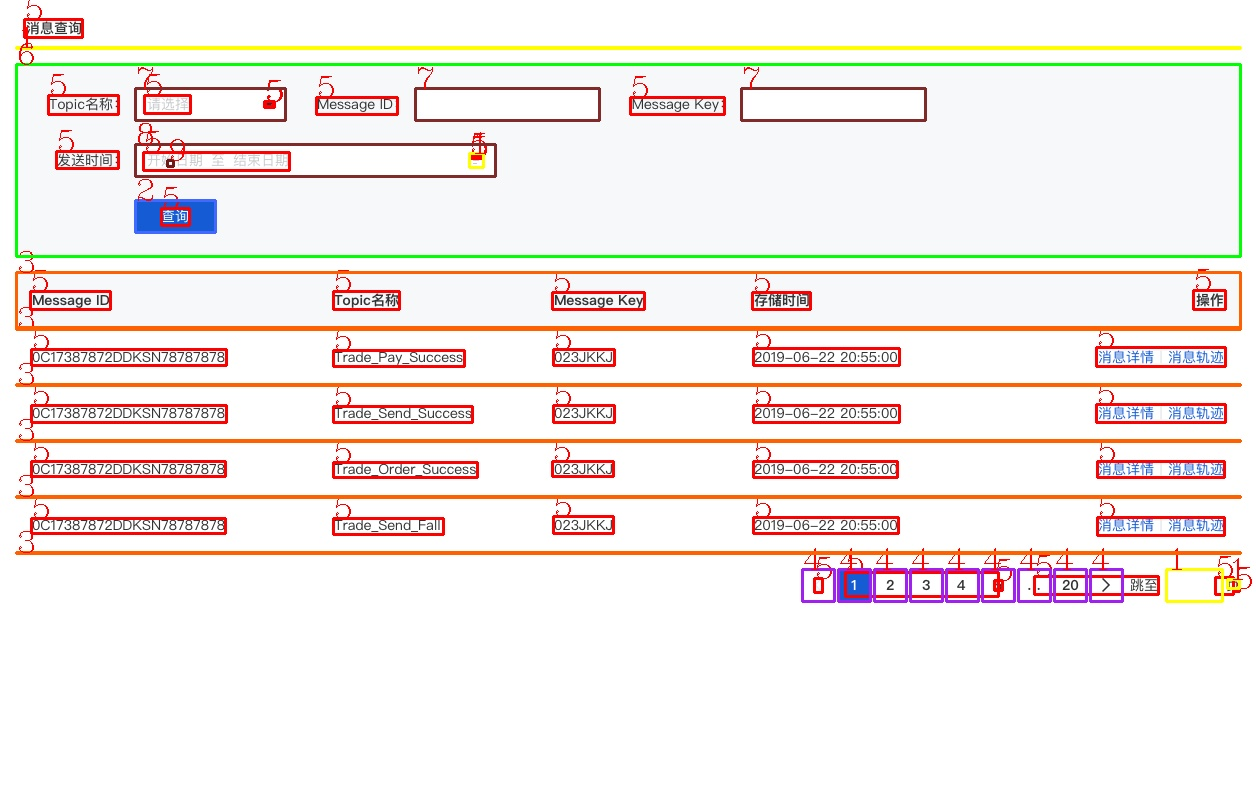
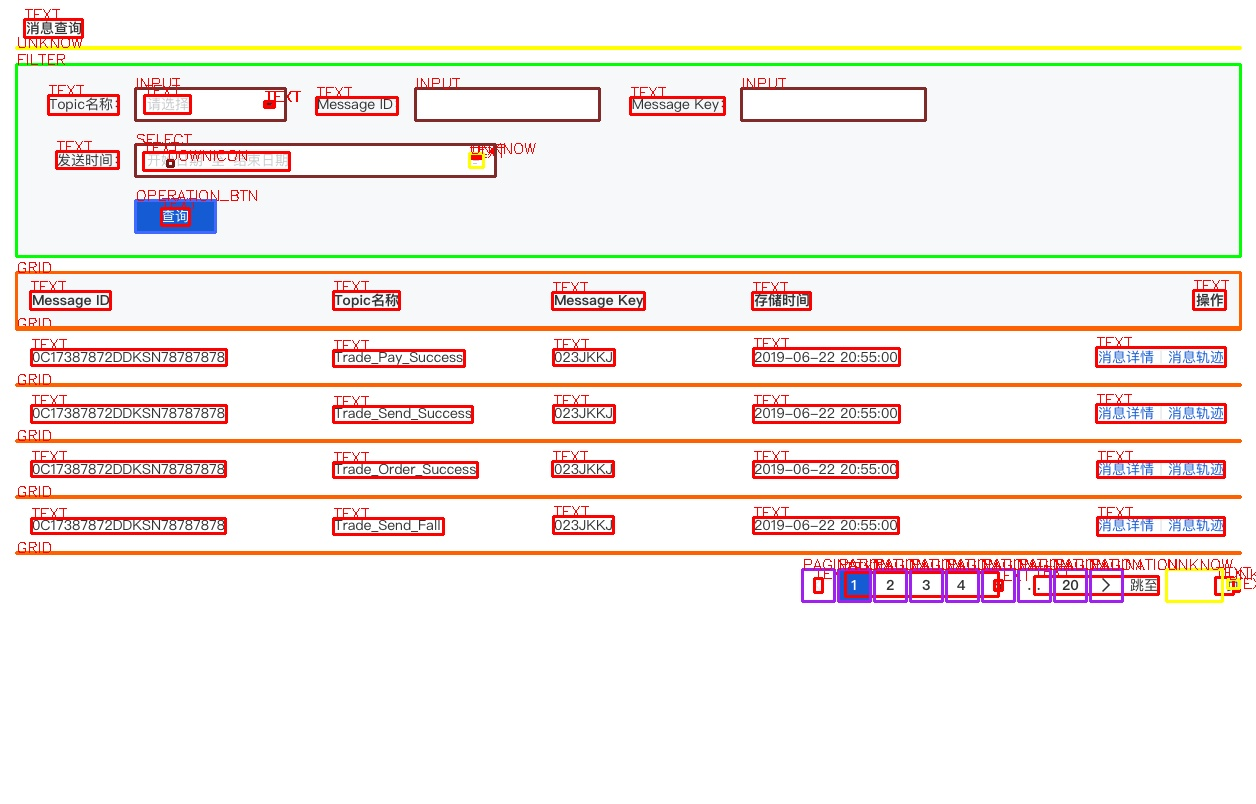
feat: text样式

diff --git a/get_schema.py b/get_schema.py
@@ -1,4 +1,5 @@
 from img_process import ImgProess
+import json
 from enums import AreaCategory, CommonLimit, ButtonSize, Color, FormItemType, SpectialText, rate
 from util import approximate_same, approximate_inrange, approximate_enumsame, is_same_range, is_contain_rect, reorganize, str_find_in_list
 
@@ -14,10 +15,15 @@ class GetSchema:
         self._select_list = categorys_list.get(AreaCategory.SELECT) or []
 
     def run(self):
+        schema = {}
         grid_schema = self.get_grid_schema()
         operation_schema = self.get_operation_schema()
         filter_schema = self.get_filter_schema()
-        print(grid_schema, operation_schema, filter_schema)
+        schema["grid_schema"] = grid_schema
+        schema["operation_schema"] = operation_schema
+        schema["filter_schema"] = filter_schema
+        result = json.dumps(schema)
+        print(result)
         return {"grid_schema": grid_schema, "operation_schema": operation_schema, "filter_schema": filter_schema}
     
     def get_grid_core_area(self):
@@ -41,8 +47,16 @@ class GetSchema:
             x_left_top, y_left_top, x_right_bottom, y_right_bottom)
        
         # grid_dict['centerList'] = center_list
-        grid_dict['cloumns'] = [x_left_top_t,
-                                    y_left_top_t, x_right_bottom_t, y_right_bottom_t]
+        grid_dict['cloumns'] = [x_left_top_t, y_left_top_t, x_right_bottom_t, y_right_bottom_t]
+
+        # 获取gird edit项
+        grid_text_cfs = self.in_rect_cfs({'x': x_left_top, 'y': y_left_top, 'w': x_right_bottom - x_left_top, 'h': y_right_bottom - y_left_top}, self._text_list)
+        edit_items = []
+        for cf in grid_text_cfs:
+            text = cf.text
+            if text.find('|') != -1:
+                edit_items.append(text.split('|'))
+        grid_dict["edit"] = edit_items[0]
         return grid_dict
 
     def get_grid_schema(self):
@@ -50,9 +64,18 @@ class GetSchema:
         columns_area = grid_dict.get('cloumns')
         contain_cfs = self.in_rect_cfs({'x': columns_area[0], 'y': columns_area[1], 'w': columns_area[2] - columns_area[0], 'h': columns_area[3] - columns_area[1]}, self._text_list)
         grid_schema = {"grid_column": []}
-        for cf in contain_cfs:
+        for index, cf in enumerate(contain_cfs):
+            column_width = columns_area[2] - columns_area[0]
+            item = {}
             text = cf.text
-            grid_schema['grid_column'].append({"title": text})
+            item["title"] = text
+            # 获取宽度
+            if (index < len(contain_cfs) - 1):
+                nextx = contain_cfs[index + 1].x
+                item["width"] = str(int((nextx - cf.x)/column_width * 100)) + '%'
+            grid_schema['grid_column'].append(item)
+
+        grid_schema["edit"] = grid_dict["edit"]    
         return grid_schema
 
     def in_rect_cfs(self, rect, cfs):

diff --git a/feature_classification.py b/feature_classification.py
@@ -101,7 +101,7 @@ class FeatureClassification:
                 h = cf.h
                 cv.rectangle(tempImg, (x, y),
                                 (x + w, y + h), color_list[index].value, 2)
-                cv.putText(tempImg,str(cf.category_type.value),(x,y),cv.FONT_HERSHEY_COMPLEX,1,(0,0,255),1)
+                cv.putText(tempImg,str(cf.category_type.name),(x,y),cv.FONT_HERSHEY_SIMPLEX,0.5,(0,0,255),1)
             index += 1
         cv.imwrite('./out/5_cf.jpg', tempImg)
 
@@ -131,27 +131,27 @@ class FeatureClassification:
 
 class Feature:
     def __init__(self, x, y, w, h, rect=None, roi=None, roiGray=None, ratewh=None, offset_bottom=None, offset_bottom_rate=None, offset_top_rate=None, ratew=None, mean=None, area=None, length=None, rateArea=None, max_indx_value=None, cnt_num=None, contour_feature=None, cnt=None, text=None):
-        self.roi = roi
-        self.roiGray = roiGray
-        self.x = x
-        self.y = y
-        self.w = w
-        self.h = h
-        self.ratewh = ratewh
-        self.offset_bottom = offset_bottom
-        self.offset_bottom_rate = offset_bottom_rate
-        self.offset_top_rate = offset_top_rate
-        self.ratew = ratew
-        self.mean = mean
-        self.area = area
-        self.length = length
-        self.rateArea = rateArea
-        self.max_indx_value = max_indx_value
-        self.cnt_num = cnt_num
-        self.contour_feature = contour_feature
-        self.rect = rect
-        self.cnt = cnt
-        self.text = text
+        self.roi = roi # rgb
+        self.roiGray = roiGray # 灰度
+        self.x = x # 左上角x坐标
+        self.y = y # 左上角y坐标
+        self.w = w # 宽度
+        self.h = h # 高度
+        self.ratewh = ratewh # 宽高比
+        self.offset_bottom = offset_bottom # 距离底部距离
+        self.offset_bottom_rate = offset_bottom_rate # 距离底部距离占图像高度比
+        self.offset_top_rate = offset_top_rate # 距离顶部距离占图像高度比
+        self.ratew = ratew # 宽度占图像宽度比
+        self.mean = mean # 灰度均值
+        self.area = area # 面积
+        self.length = length # 周长
+        self.rateArea = rateArea # 面积占图像面积比
+        self.max_indx_value = max_indx_value # 灰度直方图最高值
+        self.cnt_num = cnt_num # 轮廓点数量
+        self.contour_feature = contour_feature # 轮廓特征
+        self.rect = rect # 矩形
+        self.cnt = cnt # 轮廓
+        self.text = text # 文本
 
     def calulate_category(self, dropdown_cnt):
         contour_feature = self.contour_feature
